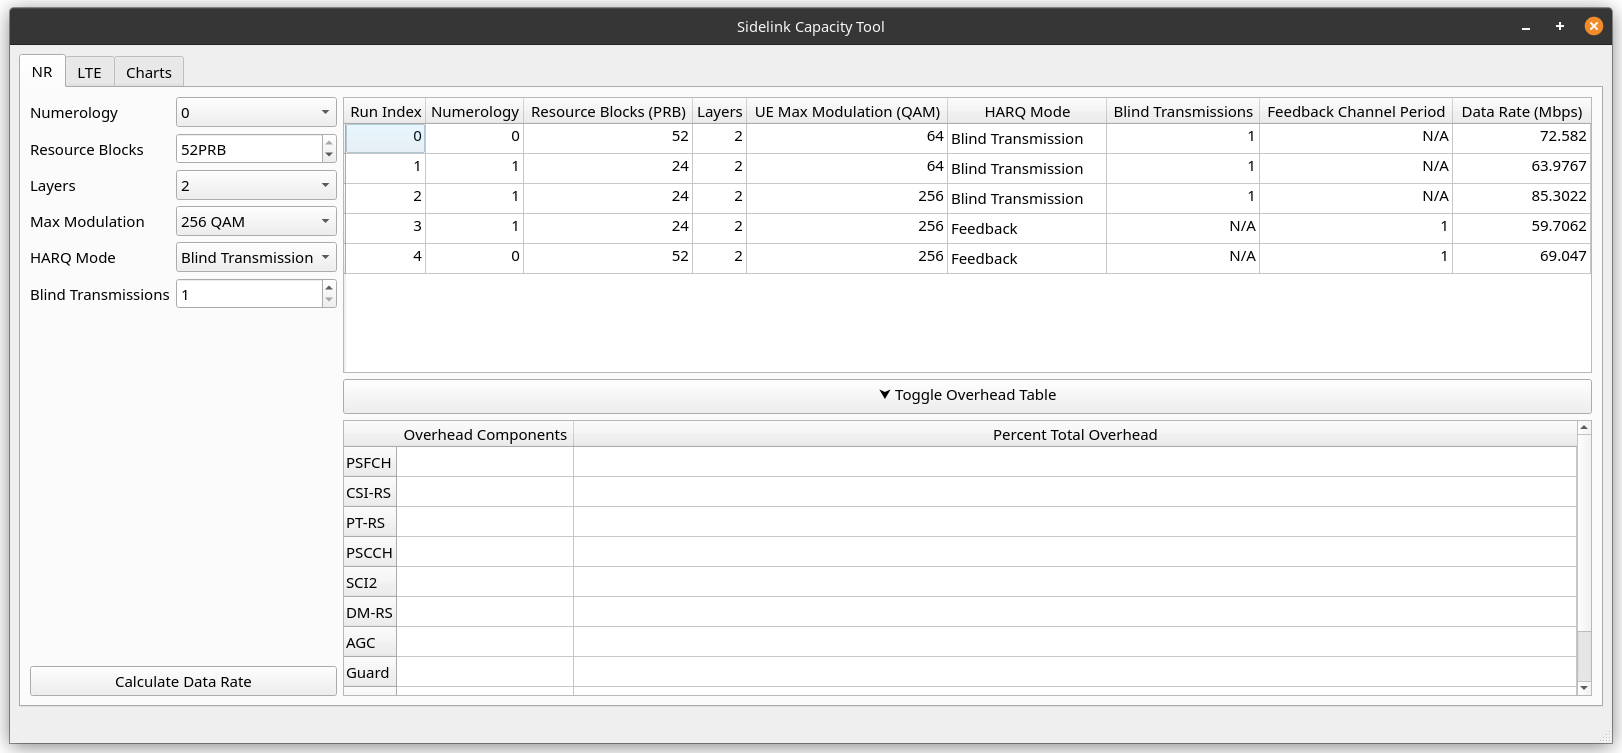
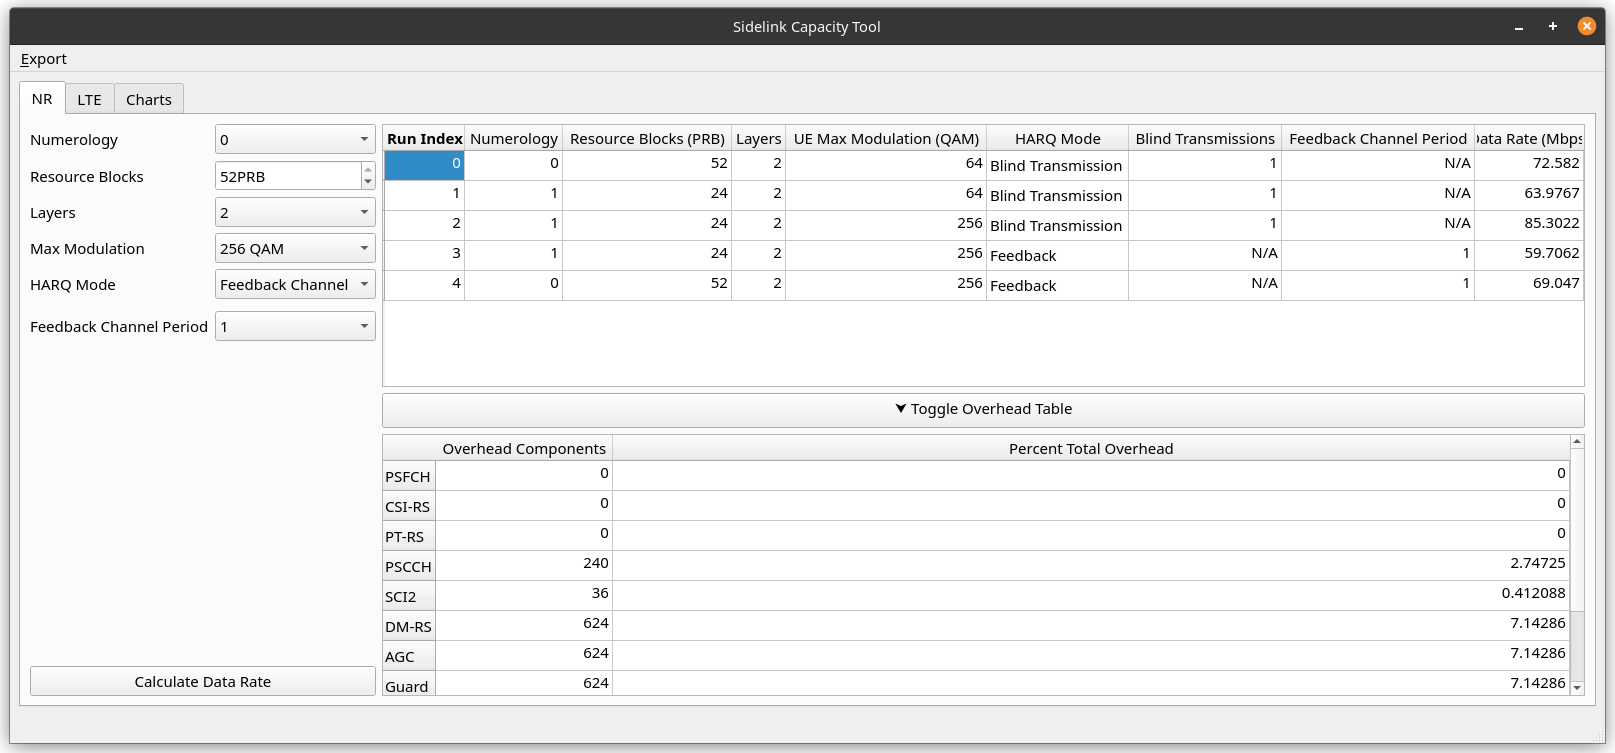
Add CSV Export

diff --git a/gui.py b/gui.py
@@ -26,15 +26,42 @@
 # software is not intended to be used in any situation where a failure could
 # cause risk of injury or damage to property. The software developed by NIST
 # employees is not subject to copyright protection within the United States.
+import csv
 
 from core import calculate_nr, NrResult, calculate_lte, HarqMode, OutOfRangeError
 from typing import List, Union, Any, Optional
 import PySide2.QtCore as QtCore
 from PySide2.QtCore import Qt, QMargins, QAbstractTableModel, QModelIndex
-from PySide2.QtWidgets import QMainWindow, QHeaderView, QMessageBox
+from PySide2.QtWidgets import QMainWindow, QHeaderView, QMessageBox, QDialog, QAbstractButton, QFileDialog
 from PySide2.QtCharts import *
 from ui_mainwindow import Ui_MainWindow
+from ui_csvdialog import Ui_CsvDialog
 from enum import Enum
+
+
+class ExportTable(Enum):
+    NR = 0
+    LTE = 1
+
+
+class CsvDialog(QDialog):
+    def __init__(self, parent=None):
+        super(CsvDialog, self).__init__(parent)
+        self.ui = Ui_CsvDialog()
+        self.ui.setupUi(self)
+
+        self.ui.comboTable.addItem("NR", userData=ExportTable.NR.value)
+        self.ui.comboTable.addItem("LTE", userData=ExportTable.LTE.value)
+
+        # Have one selected by default
+        self.ui.comboTable.setCurrentIndex(self.ui.comboTable.findData(ExportTable.NR.value, Qt.UserRole))
+
+    def selected_table(self) -> ExportTable:
+        data = self.ui.comboTable.currentData(Qt.UserRole)
+        if data == ExportTable.NR.value:
+            return ExportTable.NR
+        else:
+            return ExportTable.LTE
 
 
 class NrTableColumn(Enum):
@@ -82,6 +109,10 @@ class ResultRow:
         self.nr_result = nr_result
         self.blind_retransmissions = blind_retransmissions
         self.feedback_channel_period = feedback_channel_period
+
+    def to_csv(self):
+        return [self.run, self.numerology, self.resource_blocks, self.layers, self.max_modulation, str(self.harq_mode),
+                self.blind_retransmissions, self.feedback_channel_period, self.nr_result.data_rate]
 
 
 class ResultTableModel(QAbstractTableModel):
@@ -313,6 +344,9 @@ class ResultRowLte:
         self.pscch_size = pscch_size
         self.result = result
 
+    def to_csv(self):
+        return [self.run, self.mcs, self.resource_blocks, self.period_size, self.pscch_size, self.result]
+
 
 class ResultTableLteModel(QAbstractTableModel):
     def __init__(self):
@@ -454,6 +488,34 @@ class MainWindow(QMainWindow):
 
         self.ui.comboLteChartXAxis.activated.connect(self.chart_lte_axis_changed)
         self.ui.comboLteChartYAxis.activated.connect(self.chart_lte_axis_changed)
+
+        self.ui.action_CSV.triggered.connect(self.export_csv)
+
+    @QtCore.Slot()
+    def export_csv(self):
+        dialog = CsvDialog(self)
+        if not dialog.exec_():
+            return
+        file = QFileDialog.getSaveFileName(self, caption="Save CSV", dir="export.csv", filter="CSV (*.csv)")
+        # No file selected
+        if not file[0]:
+            return
+        with open(file[0], mode='w') as csv_file:
+            selected_table = dialog.selected_table()
+            writer = csv.writer(csv_file, delimiter=',', quotechar='"')
+
+            results = []
+            if selected_table == ExportTable.NR:
+                if dialog.ui.checkHeaders.isChecked():
+                    writer.writerow(list(NrTableColumn))
+                results = self.tableModel.results()
+            else:
+                if dialog.ui.checkHeaders.isChecked():
+                    writer.writerow(list(LteTableColumn))
+                results = self.tableModelLte.results()
+
+            for result in results:
+                writer.writerow(result.to_csv())
 
     @QtCore.Slot()
     def numerology_changed(self):  # We don't need the new index, so ignore it

diff --git a/ui_csvdialog.py b/ui_csvdialog.py
@@ -1,0 +1,83 @@
+# -*- coding: utf-8 -*-
+
+################################################################################
+## Form generated from reading UI file 'csv_dialog.ui'
+##
+## Created by: Qt User Interface Compiler version 5.15.2
+##
+## WARNING! All changes made in this file will be lost when recompiling UI file!
+################################################################################
+
+from PySide2.QtCore import *
+from PySide2.QtGui import *
+from PySide2.QtWidgets import *
+
+
+class Ui_CsvDialog(object):
+    def setupUi(self, CsvDialog):
+        if not CsvDialog.objectName():
+            CsvDialog.setObjectName(u"CsvDialog")
+        CsvDialog.setWindowModality(Qt.ApplicationModal)
+        CsvDialog.resize(395, 139)
+        CsvDialog.setStyleSheet(u"QCheckBox::indicator {\n"
+"     width: 20px;\n"
+"     height: 20px;\n"
+"}")
+        self.formLayout = QFormLayout(CsvDialog)
+        self.formLayout.setObjectName(u"formLayout")
+        self.lblTable = QLabel(CsvDialog)
+        self.lblTable.setObjectName(u"lblTable")
+
+        self.formLayout.setWidget(0, QFormLayout.LabelRole, self.lblTable)
+
+        self.comboTable = QComboBox(CsvDialog)
+        self.comboTable.setObjectName(u"comboTable")
+
+        self.formLayout.setWidget(0, QFormLayout.FieldRole, self.comboTable)
+
+        self.lblHeader = QLabel(CsvDialog)
+        self.lblHeader.setObjectName(u"lblHeader")
+
+        self.formLayout.setWidget(1, QFormLayout.LabelRole, self.lblHeader)
+
+        self.horizontalLayout = QHBoxLayout()
+        self.horizontalLayout.setObjectName(u"horizontalLayout")
+        self.horizontalSpacer = QSpacerItem(40, 20, QSizePolicy.Expanding, QSizePolicy.Minimum)
+
+        self.horizontalLayout.addItem(self.horizontalSpacer)
+
+        self.checkHeaders = QCheckBox(CsvDialog)
+        self.checkHeaders.setObjectName(u"checkHeaders")
+        self.checkHeaders.setChecked(True)
+
+        self.horizontalLayout.addWidget(self.checkHeaders)
+
+        self.horizontalSpacer_2 = QSpacerItem(40, 20, QSizePolicy.Expanding, QSizePolicy.Minimum)
+
+        self.horizontalLayout.addItem(self.horizontalSpacer_2)
+
+
+        self.formLayout.setLayout(1, QFormLayout.FieldRole, self.horizontalLayout)
+
+        self.buttons = QDialogButtonBox(CsvDialog)
+        self.buttons.setObjectName(u"buttons")
+        self.buttons.setOrientation(Qt.Horizontal)
+        self.buttons.setStandardButtons(QDialogButtonBox.Cancel|QDialogButtonBox.Ok)
+
+        self.formLayout.setWidget(2, QFormLayout.FieldRole, self.buttons)
+
+
+        self.retranslateUi(CsvDialog)
+        self.buttons.accepted.connect(CsvDialog.accept)
+        self.buttons.rejected.connect(CsvDialog.reject)
+
+        QMetaObject.connectSlotsByName(CsvDialog)
+    # setupUi
+
+    def retranslateUi(self, CsvDialog):
+        CsvDialog.setWindowTitle(QCoreApplication.translate("CsvDialog", u"Export CSV", None))
+        self.lblTable.setText(QCoreApplication.translate("CsvDialog", u"Table", None))
+        self.lblHeader.setText(QCoreApplication.translate("CsvDialog", u"Include Header Row", None))
+        self.checkHeaders.setText("")
+    # retranslateUi
+

diff --git a/ui_mainwindow.py b/ui_mainwindow.py
@@ -20,6 +20,8 @@ class Ui_MainWindow(object):
         if not MainWindow.objectName():
             MainWindow.setObjectName(u"MainWindow")
         MainWindow.resize(1028, 698)
+        self.action_CSV = QAction(MainWindow)
+        self.action_CSV.setObjectName(u"action_CSV")
         self.centralwidget = QWidget(MainWindow)
         self.centralwidget.setObjectName(u"centralwidget")
         self.horizontalLayout_2 = QHBoxLayout(self.centralwidget)
@@ -323,10 +325,15 @@ class Ui_MainWindow(object):
         self.menubar = QMenuBar(MainWindow)
         self.menubar.setObjectName(u"menubar")
         self.menubar.setGeometry(QRect(0, 0, 1028, 26))
+        self.menuExport = QMenu(self.menubar)
+        self.menuExport.setObjectName(u"menuExport")
         MainWindow.setMenuBar(self.menubar)
         self.statusbar = QStatusBar(MainWindow)
         self.statusbar.setObjectName(u"statusbar")
         MainWindow.setStatusBar(self.statusbar)
+
+        self.menubar.addAction(self.menuExport.menuAction())
+        self.menuExport.addAction(self.action_CSV)
 
         self.retranslateUi(MainWindow)
 
@@ -338,6 +345,7 @@ class Ui_MainWindow(object):
 
     def retranslateUi(self, MainWindow):
         MainWindow.setWindowTitle(QCoreApplication.translate("MainWindow", u"Sidelink Capacity Tool", None))
+        self.action_CSV.setText(QCoreApplication.translate("MainWindow", u"&CSV", None))
         self.lblNumerology.setText(QCoreApplication.translate("MainWindow", u"Numerology", None))
         self.lblResourceBlocks.setText(QCoreApplication.translate("MainWindow", u"Resource Blocks", None))
         self.spinResourceBlocksNr.setSuffix(QCoreApplication.translate("MainWindow", u"PRB", None))
@@ -364,5 +372,6 @@ class Ui_MainWindow(object):
         self.lblLteChartXAxis.setText(QCoreApplication.translate("MainWindow", u"X Axis", None))
         self.lblLteChartYAxis.setText(QCoreApplication.translate("MainWindow", u"Y Axis", None))
         self.tabWidget.setTabText(self.tabWidget.indexOf(self.tabCharts), QCoreApplication.translate("MainWindow", u"Charts", None))
+        self.menuExport.setTitle(QCoreApplication.translate("MainWindow", u"&Export", None))
     # retranslateUi
 

diff --git a/README.md b/README.md
@@ -34,16 +34,17 @@ python main.py
 Follow the [Installation](#installation) instructions above
 
 ## Compiling UI Files
-If the UI is updated, then the Python class(es) need to be recompiled, run the
+If the UI is updated, then the UI files need to be recompiled, run the
 following in the virtual environment
 
 ```shell
-pyside2-uic  main-window.ui > ui_mainwindow.py
+pyside2-uic main-window.ui > ui_mainwindow.py
+pyside2-uic csv_dialog.ui > ui_csvdialog.py
 ```
 
 The UI compiler makes a slight mistake with an import in the generated file,
 correct it with the shell command below
 
 ```shell
-sed -i 's/from PySide2.QtCharts import QtCharts.QChartView/from PySide2.QtCharts import */g' ui_mainwindow.py
+sed -i 's/from PySide2.QtCharts import QtCharts.QChartView/from PySide2.QtCharts import QtCharts/g' ui_mainwindow.py
 ```
